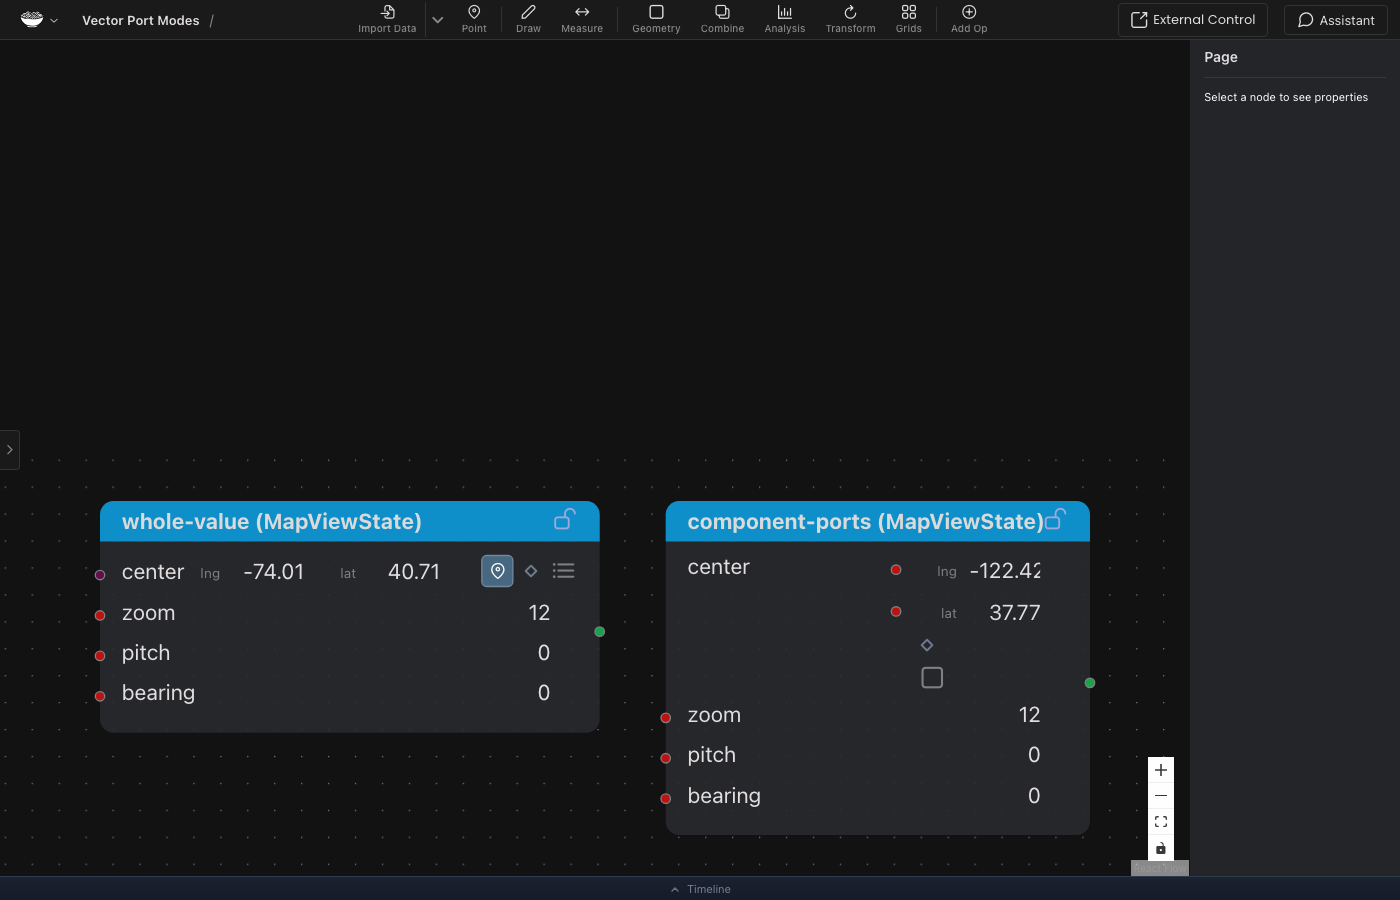
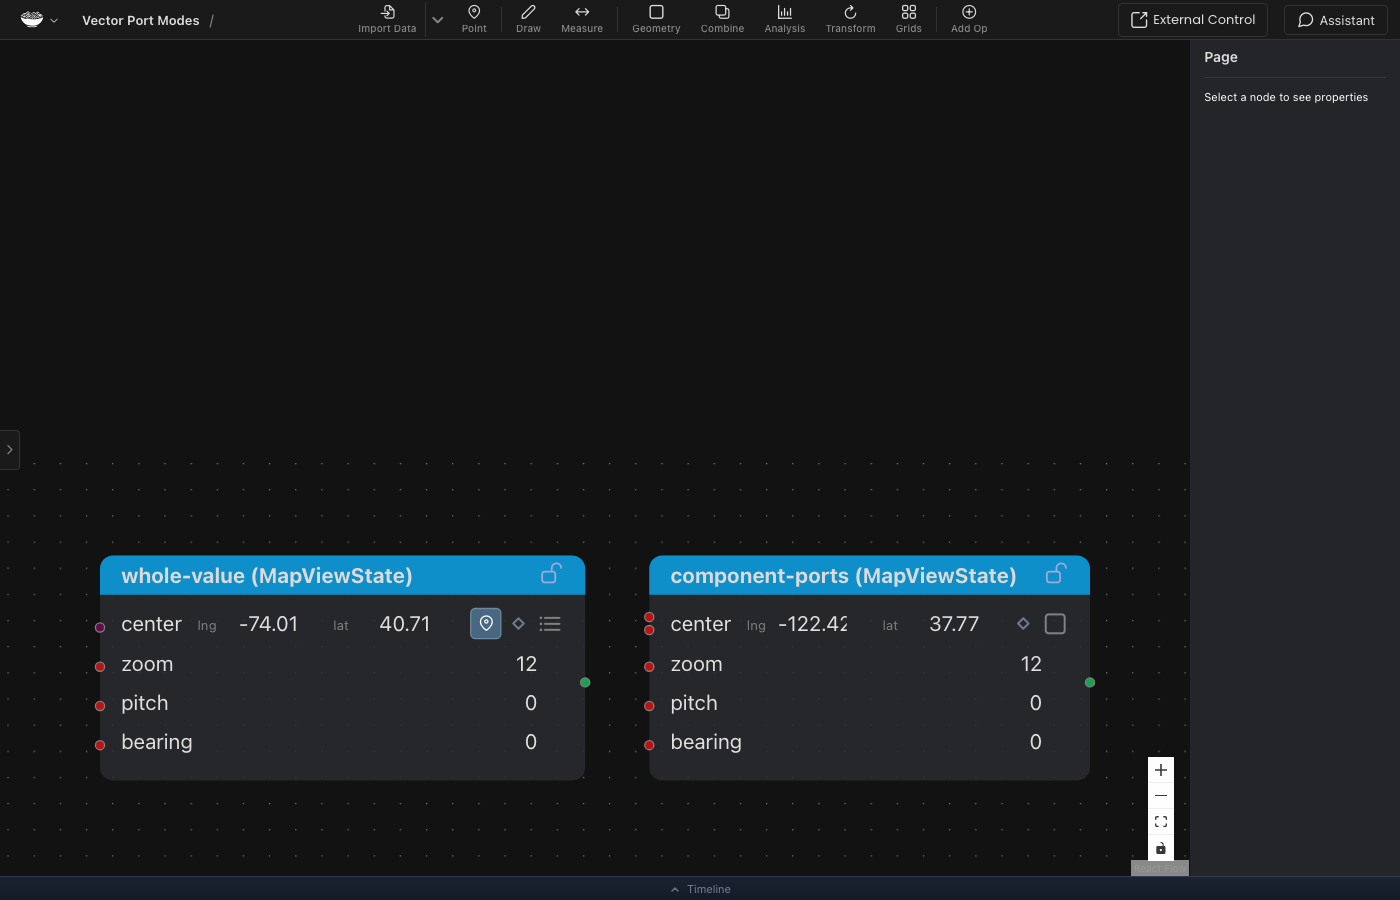
Align vector channel ports with node inputs

Changed region(s): [[0.0614, 0.5289, 0.43, 0.8711], [0.4607, 0.5289, 0.7986, 0.9333], [0.645, 0.7467, 0.6757, 0.7778]]

diff --git a/noodles-editor/src/noodles/components/field-components.tsx b/noodles-editor/src/noodles/components/field-components.tsx
@@ -844,9 +844,7 @@ export function VectorFieldComponent({
       [channelHandles, fieldName, keys, opId]
     )
   )
-  const connectedChannelKeys = connectedChannelKeyString
-    ? connectedChannelKeyString.split(',')
-    : []
+  const connectedChannelKeys = connectedChannelKeyString ? connectedChannelKeyString.split(',') : []
 
   // Track the latest value in a ref for onCommit
   const latestValueRef = useRef(value)
@@ -921,20 +919,11 @@ export function VectorFieldComponent({
   )
 
   return (
-    <div
-      className={cx(s.fieldWrapper, 'nokey', {
-        [s.fieldWrapperVectorChannels]: channelHandles,
-      })}
-    >
+    <div className={cx(s.fieldWrapper, 'nokey')}>
       <label className={s.fieldLabel} htmlFor={id}>
         {id}
       </label>
-      <div
-        id={id}
-        className={cx(s.fieldInputWrapper, s.fieldInputWrapperVector, {
-          [s.fieldInputWrapperVectorChannels]: channelHandles,
-        })}
-      >
+      <div id={id} className={cx(s.fieldInputWrapper, s.fieldInputWrapperVector)}>
         {keys.map((key, i) => {
           const objectKey = field.returnType === 'tuple' ? i : key
           const channelValue = Array.isArray(value) ? value[i] : value[key]
@@ -947,7 +936,6 @@ export function VectorFieldComponent({
                 keyName={key}
                 value={channelValue}
                 objectKey={objectKey}
-                field={field.channelFields[key]}
                 disabled={disabled}
                 onChange={onChange}
                 onCommit={onCommit}
@@ -1017,7 +1005,6 @@ function VectorChannelInput({
   keyName,
   value,
   objectKey,
-  field,
   disabled,
   onChange,
   onCommit,
@@ -1028,26 +1015,19 @@ function VectorChannelInput({
   keyName: string
   value: number
   objectKey: string | number
-  field: NumberField
   disabled: boolean
   onChange: (key: string | number, val: number) => void
   onCommit: () => void
   onInteractionStart?: () => void
 }) {
-  const isHandleDimmed = useHandleDimmed(nodeId, handleId)
   const hasIncomingConnection = useHasIncomingConnection(nodeId, handleId)
 
   return (
     <div className={s.vectorChannelRow}>
-      <Handle
-        id={handleId}
-        className={cx(handleClass(field), { [s.handleDimmed]: isHandleDimmed })}
-        style={{ transform: 'translate(-17px, -50%)' }}
-        type="target"
-        position={Position.Left}
-      />
       <div className={cx(s.fieldLabel, s.fieldLabelVector)}>{keyName}</div>
-      {!hasIncomingConnection && (
+      {hasIncomingConnection ? (
+        <div className={s.vectorChannelConnectedSpacer} aria-hidden="true" />
+      ) : (
         <VectorNumberInput
           keyName=""
           value={value}
@@ -1060,6 +1040,35 @@ function VectorChannelInput({
         />
       )}
     </div>
+  )
+}
+
+function VectorChannelHandle({
+  nodeId,
+  handleId,
+  field,
+  index,
+  count,
+}: {
+  nodeId: string
+  handleId: string
+  field: NumberField
+  index: number
+  count: number
+}) {
+  const isHandleDimmed = useHandleDimmed(nodeId, handleId)
+
+  return (
+    <Handle
+      id={handleId}
+      className={cx(handleClass(field), { [s.handleDimmed]: isHandleDimmed })}
+      style={{
+        top: `${((index + 1) / (count + 1)) * 100}%`,
+        transform: 'translate(-17px, -50%)',
+      }}
+      type="target"
+      position={Position.Left}
+    />
   )
 }
 
@@ -3388,7 +3397,16 @@ export function FieldComponent({
     field.op.setInputPortMode(fieldId, portMode === 'whole' ? 'channels' : 'whole')
     firePropertyMutation('Change vector port layout', before)
     if (nid) requestAnimationFrame(() => updateNodeInternals(nid))
-  }, [disabled, field, fieldId, hasRelatedConnection, nid, portMode, supportsChannelPorts, updateNodeInternals])
+  }, [
+    disabled,
+    field,
+    fieldId,
+    hasRelatedConnection,
+    nid,
+    portMode,
+    supportsChannelPorts,
+    updateNodeInternals,
+  ])
 
   const portModeControl = supportsChannelPorts ? (
     <button
@@ -3454,6 +3472,20 @@ export function FieldComponent({
       style={{ position: 'relative' }}
       onContextMenu={canDrive || isDriven ? onContextMenu : undefined}
     >
+      {supportsChannelPorts &&
+        portMode === 'channels' &&
+        nid &&
+        hasChannelFields(field) &&
+        Object.entries(field.channelFields).map(([channelName, channelField], index, channels) => (
+          <VectorChannelHandle
+            key={channelName}
+            nodeId={nid}
+            handleId={`par.${fieldId}.${channelName}`}
+            field={channelField}
+            index={index}
+            count={channels.length}
+          />
+        ))}
       {handle &&
         (!supportsChannelPorts || portMode === 'whole') &&
         (field instanceof ListField ? (

diff --git a/noodles-editor/src/noodles/components/field-components.test.tsx b/noodles-editor/src/noodles/components/field-components.test.tsx
@@ -663,6 +663,26 @@ describe('VectorFieldComponent', () => {
       expect(lookupButton).toBeInTheDocument()
     })
 
+    it('keeps channel mode in the same compact horizontal layout', () => {
+      const field = new Point2DField({ lng: -122.4, lat: 37.8 })
+      const { container } = render(
+        <VectorFieldComponent
+          id="center"
+          field={field}
+          disabled={false}
+          opId="/map"
+          fieldName="center"
+          channelHandles
+        />
+      )
+
+      const inputRow = container.querySelector('#center')
+      expect(inputRow).not.toBeNull()
+      expect(getComputedStyle(inputRow!).display).toBe('flex')
+      expect(getComputedStyle(inputRow!).flexDirection).toBe('row')
+      expect(within(inputRow as HTMLElement).getAllByRole('spinbutton')).toHaveLength(2)
+    })
+
     it('disables lookup button when disabled', () => {
       const field = new Point2DField({ lng: -122.4, lat: 37.8 })
       render(<VectorFieldComponent id="test-field" field={field} disabled={true} />)

diff --git a/noodles-editor/src/noodles/noodles.module.css b/noodles-editor/src/noodles/noodles.module.css
@@ -694,23 +694,18 @@
   gap: 6px;
 }
 
-.fieldWrapperVectorChannels {
-  align-items: flex-start;
-}
-
-.fieldInputWrapperVectorChannels {
-  flex: 1;
-  flex-direction: column;
-  align-items: stretch;
-}
-
 .vectorChannelRow {
-  position: relative;
   display: flex;
   align-items: center;
   justify-content: flex-end;
-  min-height: 25px;
+  min-height: 24px;
   gap: 3px;
+}
+
+.vectorChannelConnectedSpacer {
+  flex: 0 0 5rem;
+  width: 5rem;
+  height: 24px;
 }
 
 .vectorPortModeButton {
